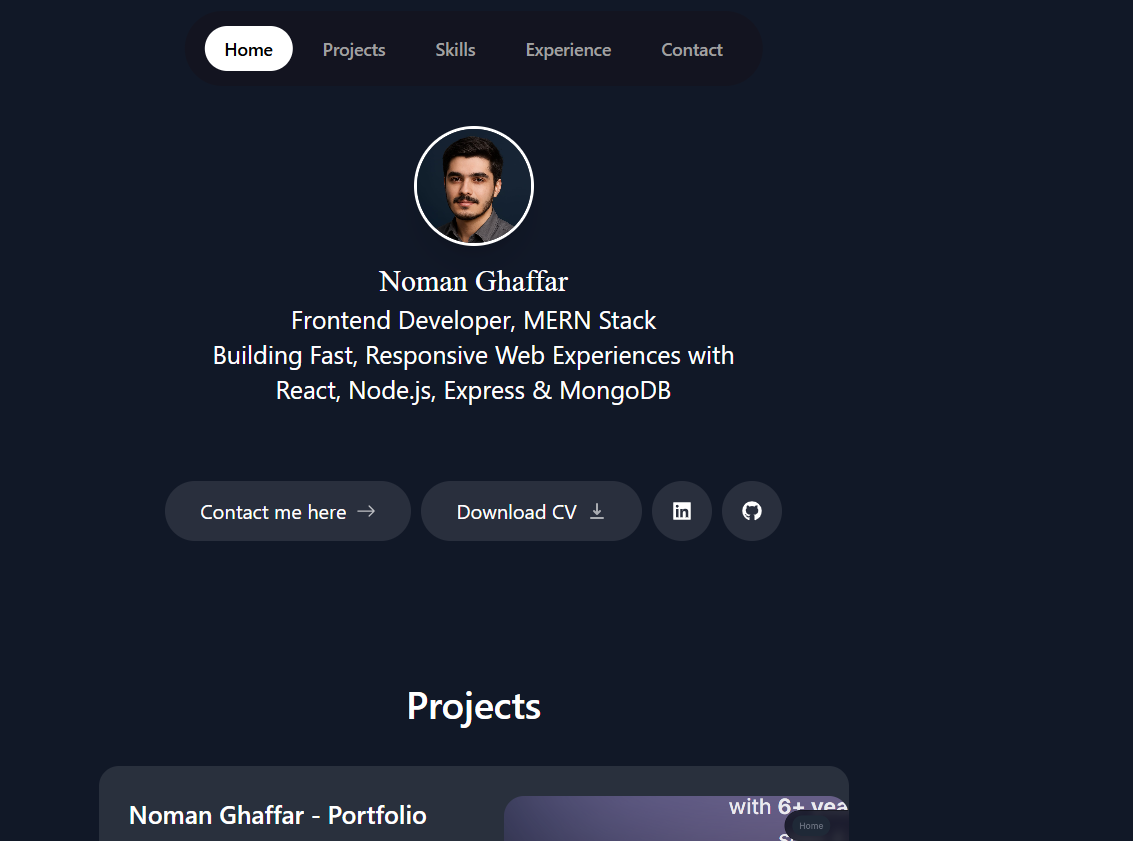
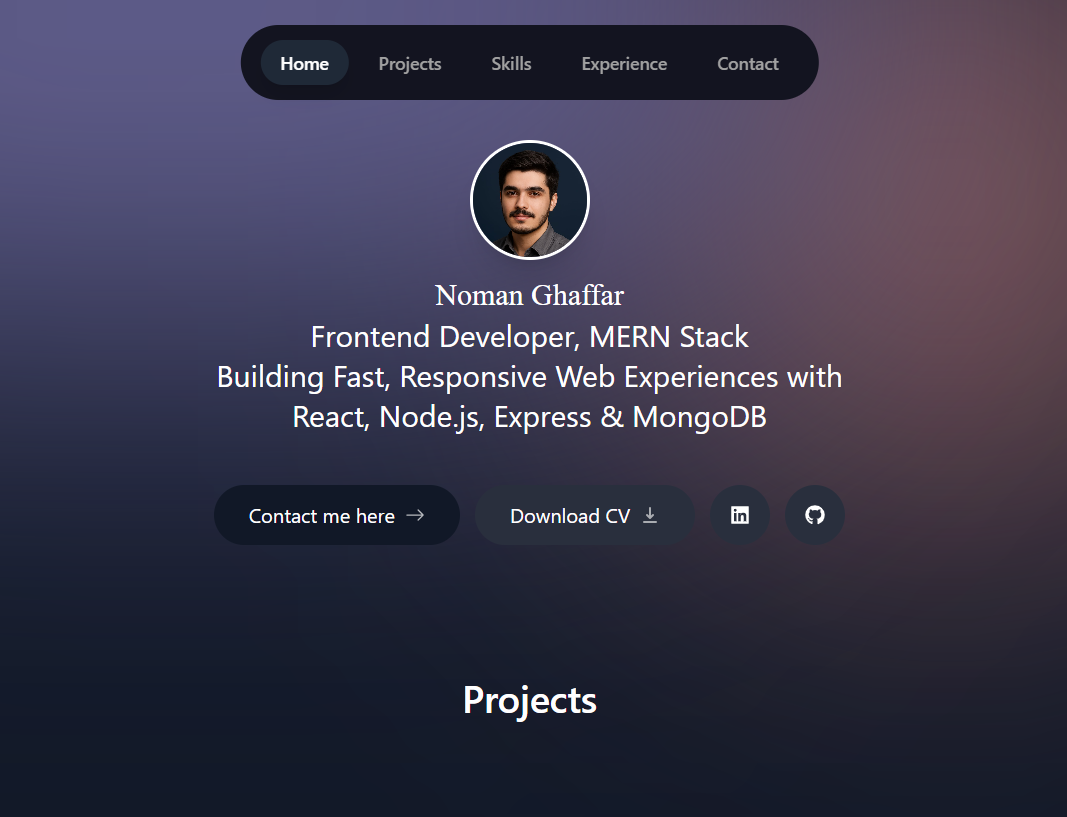
final fixes before deploy

diff --git a/src/components/Hero.tsx b/src/components/Hero.tsx
@@ -12,7 +12,7 @@ export default function Hero({
 }: NavbarProps) {
  return (
   <div
-   className="flex flex-col items-center justify-center mb-14 sm:mb-28 mt-28 scroll-mt-[200rem] "
+   className="flex flex-col items-center justify-center mb-14 sm:mb-26 mt-28 scroll-mt-[200rem] "
    id="home"
    data-id="1"
   >
@@ -21,7 +21,7 @@ export default function Hero({
     alt="img"
     className=" h-24 w-24 mb-3 rounded-full object-cover object-top border-[0.15rem] border-white shadow-xl "
    />
-   <div className="text-white  text-center mb-15 text-lg sm:text-xl md:text-2xl   ">
+   <div className="text-white  text-center mb-10 text-lg sm:text-xl md:text-2xl   ">
     <h1 className="font-lmroman text-lg sm:text-2xl ">Noman Ghaffar</h1>
     <p>
      Frontend Developer, MERN Stack
@@ -50,6 +50,7 @@ export default function Hero({
   hover:scale-115 hover:-translate-y-0.5"
      href="https://drive.google.com/file/d/1ROAAuKDRNzhs7RXMmlMKpKf1g_LAiU2Z/view?usp=sharing"
      target="_blank"
+     rel="noopener noreferrer"
     >
      Download CV{" "}
      <HiDownload className="opacity-60 transition group-hover:translate-y-1" />
@@ -59,6 +60,7 @@ export default function Hero({
       className="rounded-full bg-[#292f3d] p-4 transition transition-transform duration-300 ease-out 
   hover:scale-115 hover:-translate-y-0.5"
       target="_blank"
+      rel="noopener noreferrer"
       href="https://www.linkedin.com/in/noman-ghaffar-dev/"
      >
       <FaLinkedin />
@@ -66,6 +68,7 @@ export default function Hero({
 
      <a
       target="_blank"
+      rel="noopener noreferrer"
       className="rounded-full bg-[#292f3d] p-4 transition-transform duration-300 ease-out 
   hover:scale-115 hover:-translate-y-0.5"
       href="https://github.com/NomanAdam"

diff --git a/index.html b/index.html
@@ -1,13 +1,17 @@
 <!doctype html>
 <html lang="en">
-  <head>
-    <meta charset="UTF-8" />
-    <link rel="icon" type="image/svg+xml" href="/favicon.svg" />
-    <meta name="viewport" content="width=device-width, initial-scale=1.0" />
-    <title>my-portfolio</title>
-  </head>
-  <body>
-    <div id="root"></div>
-    <script type="module" src="/src/main.tsx"></script>
-  </body>
+ <head>
+  <meta charset="UTF-8" />
+  <meta name="viewport" content="width=device-width, initial-scale=1.0" />
+  <link rel="icon" type="image/png" href="/favicon.png" />
+  <title>Noman Ghaffar — Frontend Developer</title>
+  <meta
+   name="description"
+   content="Portfolio of Noman Ghaffar, a MERN developer specializing in React, TypeScript, and Tailwind CSS."
+  />
+ </head>
+ <body>
+  <div id="root"></div>
+  <script type="module" src="/src/main.tsx"></script>
+ </body>
 </html>

diff --git a/src/App.tsx b/src/App.tsx
@@ -21,7 +21,7 @@ function App() {
    <div className="absolute inset-0 -z-10 overflow-hidden">
     <div className="absolute top-[-6rem] right-[11rem] h-[31.25rem] w-[31.25rem] rounded-full bg-[#946263] blur-[10rem]" />
 
-    <div className="absolute top-[-1rem] left-[-35rem] h-[31.25rem] w-[50rem] rounded-full bg-[#676394] blur-[10rem] sm:w-[68.75rem] md:left-[-33rem] lg:left-[-28rem] xl:left-[-15rem] 2xl:left-[-5rem]" />
+    <div className="absolute top-[-15rem] left-[-35rem] h-[31.25rem] w-[50rem] rounded-full bg-[#676394] blur-[10rem] sm:w-[68.75rem] md:left-[-33rem] lg:left-[-28rem] xl:left-[-15rem] 2xl:left-[-5rem]" />
    </div>
 
    {/* Content */}
